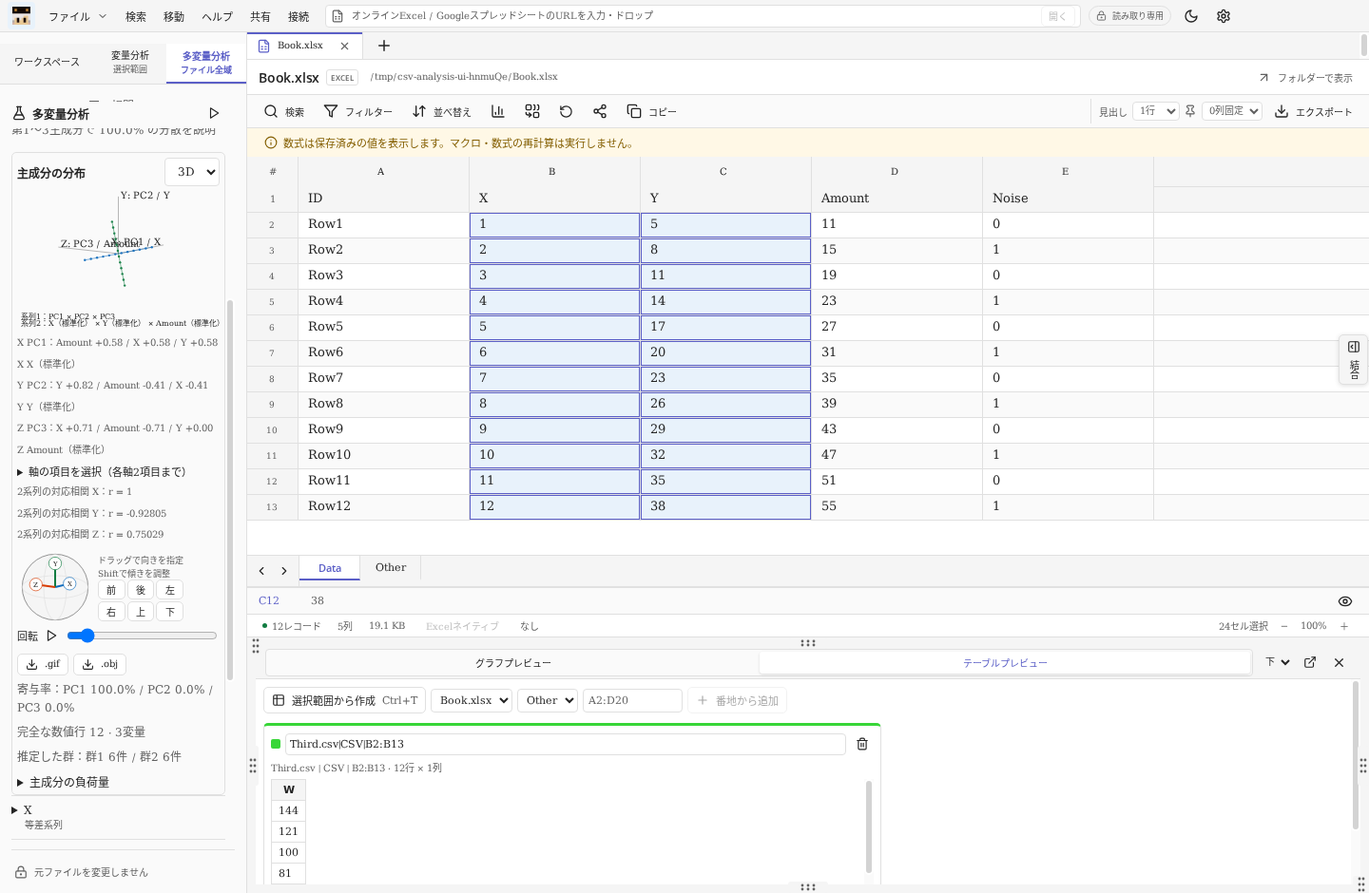
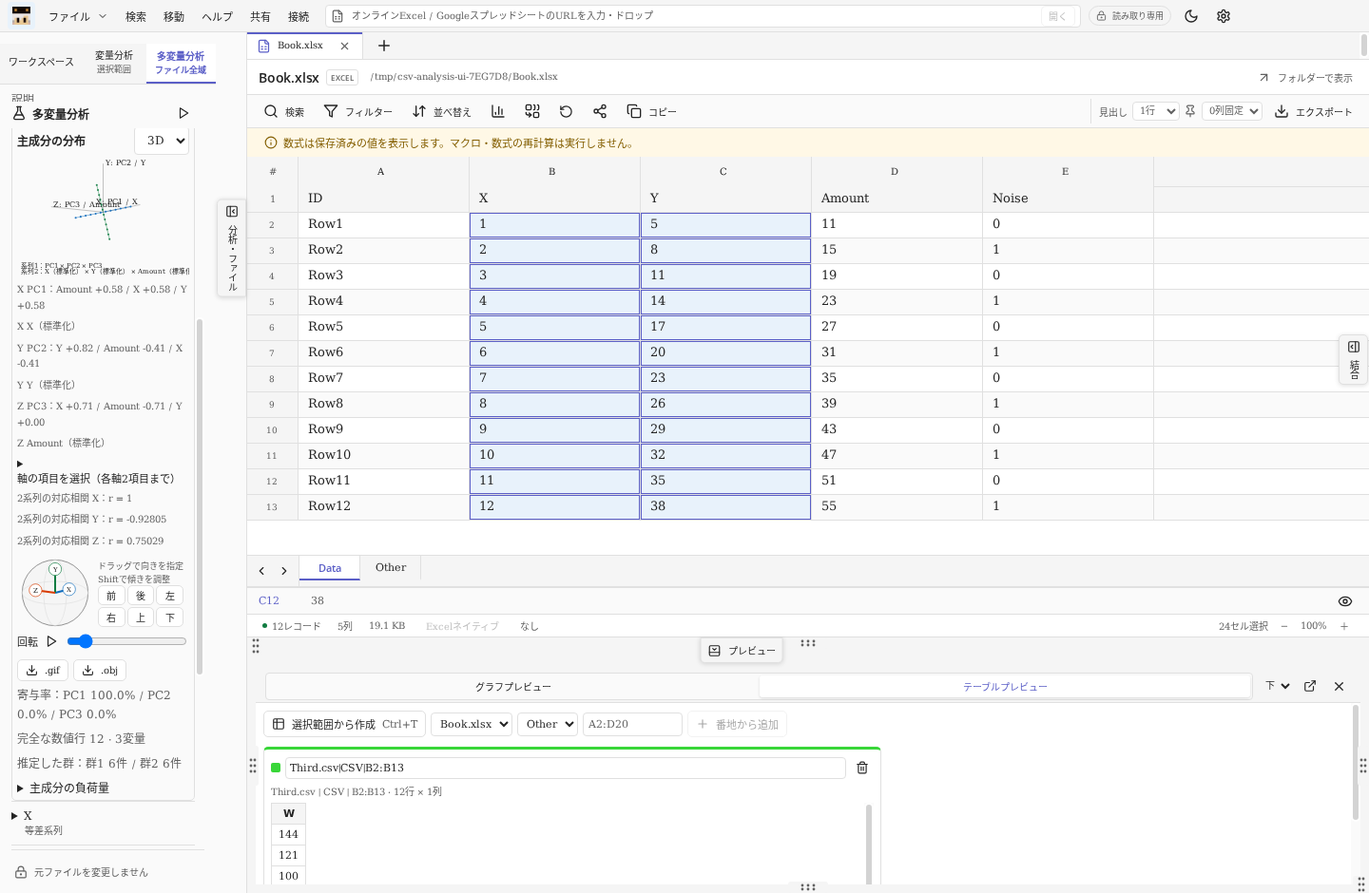
Release v1.2.1: close panes with tabs on the inner side of their data boundary

diff --git a/src/main.tsx b/src/main.tsx
@@ -1,6 +1,6 @@
 import React, { useEffect, useLayoutEffect, useMemo, useRef, useState } from 'react';
 import { createRoot } from 'react-dom/client';
-import { FileSpreadsheet, FolderOpen, Search, Filter as FilterIcon, ArrowDownUp, Download, Moon, Sun, X, Plus, ChevronDown, FileText, LockKeyhole, Pin, Eye, Copy, RotateCw, Settings, List, Check, PanelLeftClose, PanelLeftOpen, ArrowUpRight, ChevronLeft, ChevronRight, Info, BarChart3, Combine, Share2, ArrowUp, ArrowDown, RotateCcw, EyeOff, Trash2, PanelBottomOpen, PanelRightOpen, FlaskConical } from 'lucide-react';
+import { FileSpreadsheet, FolderOpen, Search, Filter as FilterIcon, ArrowDownUp, Download, Moon, Sun, X, Plus, ChevronDown, FileText, LockKeyhole, Pin, Eye, Copy, RotateCw, Settings, List, Check, PanelLeftClose, PanelLeftOpen, ArrowUpRight, ChevronLeft, ChevronRight, Info, BarChart3, Combine, Share2, ArrowUp, ArrowDown, RotateCcw, EyeOff, Trash2, FlaskConical } from 'lucide-react';
 import MarkdownIt from 'markdown-it';
 import DOMPurify from 'dompurify';
 import type { Meta, Row, Filter, Sort, Selection, Tab, Preferences } from './types';
@@ -10,6 +10,7 @@ import { AnalysisPanel } from './analysis-panel';
 import { defaultChartSettings, cloneChartSpec } from './chart-settings';
 import { DockPane, Dashboard, MergePanel, type Position } from './panels';
 import { DockSlot } from './dock-slot';
+import { PaneBoundaryButton } from './pane-boundary-button';
 import { SidebarBoundary } from './splitter';
 import { GridHead } from './grid-head';
 import { WorksheetTabs } from './worksheet-tabs';
@@ -326,7 +327,7 @@ function App() {
     <div className="workbench">
       {sidebar && <aside className="sidebar" style={{width:prefs.sidebarWidth||260}}><SidebarModeTabs active={sideMode} onChange={setSideMode}/><div className="sidebar-mode-content" role="tabpanel" id={'sidebar-panel-'+sideMode} aria-labelledby={'sidebar-mode-'+sideMode}>{sideMode!=='workspace'?<AnalysisPanel tab={selectedTab} tabs={tabs} tables={savedTables} all={sideMode==='multivariate'}/>:<><button className="open-button" onClick={openDialog} disabled={!!busy}><FolderOpen size={17}/>ファイルを開く<Plus size={15}/></button><div className="section-label">開いているファイル <span>{tabs.length}</span></div><div className="file-list">{tabs.map(t => <button key={t.meta.id} title={t.meta.path} className={'file-item ' + (t.meta.id === activeId ? 'selected' : '')} onClick={() => setActiveId(t.meta.id)}>{['csv','excel'].includes(t.meta.kind) ? <FileSpreadsheet size={17}/> : <FileText size={17}/>}<span>{t.meta.name||nameOf(t.meta.path)}</span><small onClick={e => { e.stopPropagation(); close(t.meta.id); }}><X size={13}/></small></button>)}{!tabs.length && <p className="sidebar-empty">開いているファイルはありません</p>}</div>
       {meta && isCsv ? <><div className="section-label">列 <span>{columns.length}/{meta.columns}</span></div><div className="column-list">{meta.headers.map((h, c) => <label key={c} title={h}><input type="checkbox" checked={!selectedTab!.hidden.includes(c)} onChange={e => { const hidden = e.target.checked ? selectedTab!.hidden.filter(v => v !== c) : [...selectedTab!.hidden, c]; patchTab({ hidden }); }}/><span className="column-letter">{letter(c)}</span><span>{h}</span>{frozenColumns.includes(c) && <Pin size={11}/>}</label>)}</div></> : <><div className="section-label">最近開いたファイル</div><div className="recent-list">{prefs.recent?.slice(0, 8).map(path => <button key={path} title={path} onClick={() => openPaths([path])}><FileText size={14}/><span>{nameOf(path)}</span></button>)}</div></>}
-      </>}</div><SidebarBoundary width={prefs.sidebarWidth||260} onChange={sidebarWidth=>savePrefs({sidebarWidth})}/><div className="sidebar-footer"><LockKeyhole size={14}/><span>元ファイルを変更しません</span></div></aside>}
+      </>}</div><SidebarBoundary width={prefs.sidebarWidth||260} onChange={sidebarWidth=>savePrefs({sidebarWidth})}/><PaneBoundaryButton position="left" expanded label="左サイドの境界ボタンで閉じる" onClick={()=>setSidebar(false)}>分析・ファイル</PaneBoundaryButton><div className="sidebar-footer"><LockKeyhole size={14}/><span>元ファイルを変更しません</span></div></aside>}
       <div className="editor-layout"><main className="main-panel">
         <div className="tabbar">{tabs.map(t => <div key={t.meta.id} className={'tab ' + (t.meta.id === activeId ? 'active' : '')}><button title={t.meta.path} onClick={() => setActiveId(t.meta.id)}>{['csv','excel'].includes(t.meta.kind) ? <FileSpreadsheet size={15}/> : <FileText size={15}/>}<span>{t.meta.name||nameOf(t.meta.path)}</span></button><button aria-label={`${t.meta.name||nameOf(t.meta.path)}を閉じる`} className="tab-close" onClick={() => close(t.meta.id)}><X size={13}/></button></div>)}<button className="icon-btn add-tab" aria-label="ファイルを追加" onClick={openDialog}><Plus size={18}/></button></div>
         {meta ? <><div className="document-heading"><div><h1>{meta.name||nameOf(meta.path)}<span className="type-badge">{meta.kind === 'markdown' ? 'MARKDOWN' : meta.kind.toUpperCase()}</span></h1><p title={meta.sourceUrl||meta.path}>{meta.sourceUrl||meta.path}</p></div><button className="quiet-button" disabled={!!meta.sourceUrl} title="フォルダーで表示" onClick={() => window.csv.reveal(meta.path)}><ArrowUpRight size={15}/>フォルダーで表示</button></div>
@@ -352,9 +353,10 @@ function App() {
         {meta.kind==='excel' && (meta.sheets?.length||0)>1 && <WorksheetTabs key={meta.id} sheets={meta.sheets!} active={meta.sheet||meta.sheets![0]} disabled={!!busy} panelId={'worksheet-grid-'+meta.id} onSelect={sheet=>configure({sheet})}/>}
         <div className="inspector"><span className="cell-address">{selectedTab?.selection ? `${letter(selectedTab.selection.col1)}${selectedTab.selection.row1 + 1}` : '—'}</span><pre title="選択セルの内容（型変換なし）">{cellValue || ' '}</pre><button title="セルの全文を表示" aria-label="セルの全文を表示" className="icon-btn" onClick={() => showModal('cell')}><Eye size={16}/></button></div>
         <footer className="statusbar"><span><span className="status-dot"/>{count(meta.count)}{isCsv ? 'レコード' : '行'}</span>{isCsv && <span>{count(meta.columns)}列</span>}<span>{bytes(meta.size)}</span><button disabled={meta.kind==='excel'} onClick={() => showModal('reading')}>{meta.encoding==='workbook'?'Excelネイティブ':ENCODINGS.find(e => e[0] === meta.encoding)?.[1]}{meta.bom ? ' BOM' : ''}</button><span>{meta.lineEndings}</span><div className="status-right">{selectionCount > 0 && <span>{count(selectionCount)}セル選択</span>}<button onClick={() => savePrefs({ fontSize: Math.max(10,(prefs.fontSize || 13)-1) })}>−</button><span>{Math.round((prefs.fontSize || 13)/13*100)}%</span><button onClick={() => savePrefs({ fontSize: Math.min(24,(prefs.fontSize || 13)+1) })}>＋</button></div></footer></> : <div className="welcome"><div className="welcome-art"><div className="sheet"><div className="sheet-top"><FileSpreadsheet size={20}/><span>CSV nyaan Viewer</span><LockKeyhole size={12}/></div>{[0,1,2,3].map(r => <div className="sheet-row" key={r}>{[0,1,2].map(c => <span key={c} className={r === 2 && c === 1 ? 'blue' : ''}/>)}</div>)}</div></div><span className="eyebrow">YOUR DATA. AS IT IS.</span><h1>ファイルを、そのまま読む。</h1><p>CSVの桁数も、Markdownの構造も、テキストの内容も。<br/>変換せずに開いて、必要な情報をすばやく見つける。</p><button className="primary large" onClick={openDialog}><FolderOpen size={18}/>ファイルを開く<span>Ctrl + O</span></button><div className="drop-hint">CSV・Excel・.md・.txt・オンラインファイルのURLをドラッグ＆ドロップ</div><div className="welcome-features"><span><LockKeyhole size={17}/>元ファイルを保持</span><span><Search size={17}/>検索・フィルター</span><span><Download size={17}/>必要な形式で出力</span></div></div>}
-      {!previewOpen&&<button className={'pane-reopen preview-reopen reopen-'+(prefs.previewPosition||'bottom')} aria-label="下段プレビューを開く" onClick={()=>setPreviewOpen(true)}><PanelBottomOpen size={14}/>プレビュー</button>}{!mergeOpen&&<button className={'pane-reopen merge-reopen reopen-'+(prefs.mergePosition||'right')} aria-label="右側ファイル結合を開く" onClick={()=>setMergeOpen(true)}><PanelRightOpen size={14}/>結合</button>}{!sidebar&&<button className="pane-reopen reopen-left" aria-label="左サイドを開く" onClick={()=>setSidebar(true)}><PanelLeftOpen size={14}/>分析・ファイル</button>}</main>{(['top','bottom','left','right'] as Position[]).map(position=>{
+      {!previewOpen&&<PaneBoundaryButton position={(prefs.previewPosition||'bottom') as Position} expanded={false} className="preview-reopen" label="下段プレビューを開く" onClick={()=>setPreviewOpen(true)}>プレビュー</PaneBoundaryButton>}{!mergeOpen&&<PaneBoundaryButton position={(prefs.mergePosition||'right') as Position} expanded={false} className="merge-reopen" label="右側ファイル結合を開く" onClick={()=>setMergeOpen(true)}>結合</PaneBoundaryButton>}{!sidebar&&<PaneBoundaryButton position="left" expanded={false} label="左サイドを開く" onClick={()=>setSidebar(true)}>分析・ファイル</PaneBoundaryButton>}</main>{(['top','bottom','left','right'] as Position[]).map(position=>{
       const panels=[];if(previewOpen&&(prefs.previewPosition||'bottom')===position)panels.push(pane('preview'));if(mergeOpen&&(prefs.mergePosition||'right')===position)panels.push(pane('merge'));
-      return panels.length?<DockSlot key={position} position={position} size={prefs.dockSizes?.[position]} onResize={size=>savePrefs({dockSizes:{...prefs.dockSizes,[position]:size}})}>{panels}</DockSlot>:null;
+      const controls=[];if(previewOpen&&(prefs.previewPosition||'bottom')===position)controls.push(<PaneBoundaryButton key="preview" position={position} expanded label="グラフプレビューの境界ボタンで閉じる" onClick={()=>setPreviewOpen(false)}>プレビュー</PaneBoundaryButton>);if(mergeOpen&&(prefs.mergePosition||'right')===position)controls.push(<PaneBoundaryButton key="merge" position={position} index={controls.length} expanded label="ファイル結合の境界ボタンで閉じる" onClick={()=>setMergeOpen(false)}>結合</PaneBoundaryButton>);
+      return panels.length?<DockSlot key={position} position={position} size={prefs.dockSizes?.[position]} controls={controls} onResize={size=>savePrefs({dockSizes:{...prefs.dockSizes,[position]:size}})}>{panels}</DockSlot>:null;
     })}</div>
     </div>
     {tableMenu&&<><div className="head-menu-shield" onPointerDown={()=>setTableMenu(null)}/><div className="head-menu" role="menu" aria-label="テーブルの操作" style={{left:tableMenu.x,top:tableMenu.y}}>{savedTables.filter(t=>tableMenu.ids.includes(t.id)).map(t=><button role="menuitem" key={t.id} onClick={()=>deleteSavedTable(t.id)}><Trash2 size={14}/>{t.name}を削除</button>)}</div></>}

diff --git a/src/style.css b/src/style.css
@@ -51,6 +51,18 @@
 .sidebar-mode-tab.active small{color:inherit}
 .sidebar-mode-tab:focus-visible{outline:2px solid var(--accent-text);outline-offset:-2px}
 .sidebar-mode-content{display:flex;flex-direction:column;flex:1;min-height:0}
+/* Close tabs sit on the pane side of the data boundary, clear of the resize grips. */
+.sidebar{padding-right:44px}
+.dock-slot.left{padding-right:34px}.dock-slot.right{padding-left:34px}
+.dock-slot.top{padding-bottom:34px}.dock-slot.bottom{padding-top:34px}
+.pane-close{margin:0;color:var(--text)}
+.pane-boundary-button svg{flex-shrink:0}.pane-boundary-button span{overflow:hidden;text-overflow:ellipsis;min-width:0;min-height:0}
+.close-left,.close-right{top:var(--pane-button-position);max-height:calc(50% - 48px);writing-mode:vertical-rl;transform:translateY(-50%)}
+.close-left{right:0;border-radius:5px 0 0 5px}
+.close-right{left:0;border-radius:0 5px 5px 0}
+.close-top,.close-bottom{left:calc(50% + var(--pane-button-offset));transform:translateX(-50%)}
+.close-top{bottom:0;border-radius:5px 5px 0 0}
+.close-bottom{top:0;border-radius:0 0 5px 5px}
 /* Analysis, table snapshots and 3D controls share the current theme. */
 .analysis-panel{padding:8px 0;overflow-wrap:anywhere}.analysis-panel>header{position:sticky;top:0;z-index:1;background:var(--surface);padding-bottom:4px}.analysis-scopes{border:1px solid var(--line);border-radius:5px;margin:8px 0;padding:6px}.analysis-scopes legend{font-size:10px;color:var(--muted)}.analysis-scopes label{display:flex;align-items:flex-start;gap:5px;padding:4px 0;font-size:11px}.analysis-scopes input[type=radio]{accent-color:var(--accent);margin:2px 0;width:13px;height:13px;flex-shrink:0}.sheet-scope>span{min-width:0;flex:1}.sheet-scope select{display:block;width:100%;margin-top:5px;font-size:11px;padding:4px}.analysis-source-list,.analysis-table-list{max-height:120px;overflow:auto;padding-left:15px}.analysis-source-list p,.analysis-table-list label{font-size:10px}.all-scope{display:flex;align-items:center;justify-content:space-between}.all-scope .icon-btn{padding:2px}.analysis-scopes small{font-size:10px;color:var(--muted)}.analysis-scopes>label{flex-wrap:wrap}.analysis-plot{display:block;width:100%;height:auto;max-height:360px}.analysis-exports,.analysis-downloads{display:flex;flex-wrap:wrap;gap:5px;margin-top:8px}.analysis-exports button{flex:1;min-width:0;padding:6px 3px;font-size:10px;white-space:normal}.analysis-downloads button,.individual-analysis-chart button{padding:4px 8px;font-size:10px}.analysis-pca{padding:5px}.pca-categories p,.series-correlations p{font-size:10px}.axis-choices{font-size:11px;margin:6px 0}.axis-choices>div{display:grid;grid-template-columns:22px minmax(0,1fr);gap:4px;margin:5px 0}.axis-choices>div select{grid-column:2;width:100%;font-size:10px;padding:4px}.axis-choices>div strong{grid-row:1/3;align-self:center}.axis-choices>label{display:flex;align-items:center;gap:5px}.axis-choices small{display:block;color:var(--muted);font-size:10px;margin:5px 0}.orientation-control{display:flex;align-items:center;gap:5px;margin-top:6px}.analysis-pca .direction-wheel{width:80px;min-width:80px;touch-action:none;cursor:grab}.direction-wheel:focus-visible{outline:2px solid var(--accent-text);border-radius:50%}.orientation-control small{font-size:9px;color:var(--muted)}.view-presets{display:grid;grid-template-columns:repeat(3,1fr);gap:2px}.view-presets button{padding:2px 4px;font-size:10px}.rotation-control{display:flex;align-items:center;gap:4px;font-size:11px}.rotation-control .icon-btn{padding:3px}.rotation-control input[type=range]{flex:1;min-width:0;padding:0}.analysis-alignment{font-size:10px}.individual-analysis-chart{margin:5px 0}.table-preview{display:flex;flex-direction:column;min-height:0;flex:1;padding:8px;overflow:auto}.table-create-bar{display:flex;flex-wrap:wrap;align-items:center;gap:5px;font-size:11px}.table-create-bar button{padding:5px 8px}.table-create-bar select{max-width:220px;padding:5px}.table-create-bar input{width:105px;padding:5px}.saved-tables{display:flex;gap:10px;flex-wrap:wrap;margin-top:10px}.saved-table{border:1px solid var(--line);border-top:3px solid var(--table-color);border-radius:5px;background:var(--bg);padding:7px;width:min(100%,650px);font-size:11px}.saved-table header{display:flex;align-items:center;gap:5px}.saved-table header input{flex:1;min-width:0;font-size:11px;padding:4px}.table-swatch{width:10px;height:10px;background:var(--table-color);border-radius:2px;flex-shrink:0}.saved-table small{display:block;color:var(--muted);margin:5px 0;font-size:10px;overflow-wrap:anywhere}.saved-table-scroll{overflow:auto;max-height:170px}.saved-table table{border-collapse:collapse;white-space:nowrap}.saved-table th,.saved-table td{border:1px solid var(--line);padding:4px 7px;max-width:250px;overflow:hidden;text-overflow:ellipsis}.saved-table th{background:var(--surface2)}.cell.table-cell{background:color-mix(in srgb,var(--table-color) 14%,var(--bg));box-shadow:inset 0 -2px var(--table-color)}.cell.table-cell.selected{background:var(--accent-soft);box-shadow:inset 0 0 0 1px var(--accent-text),inset 0 -3px var(--table-color)}.cell.table-cell.cell-concealed{background:var(--surface3);color:var(--concealed-text)}.head-menu[aria-label="テーブルの操作"] button{white-space:normal;overflow-wrap:anywhere}
 

diff --git a/src/dock-slot.tsx b/src/dock-slot.tsx
@@ -10,7 +10,7 @@ function DotGrip({ vertical = false }: { vertical?: boolean }) {
   </svg>;
 }
 
-export function DockSlot({ position, size = {}, onResize, children }: { position: Position; size?: PaneSize; onResize(size: PaneSize): void; children: React.ReactNode }) {
+export function DockSlot({ position, size = {}, onResize, children, controls }: { position: Position; size?: PaneSize; onResize(size: PaneSize): void; children: React.ReactNode; controls?: React.ReactNode }) {
   const ref = useRef<HTMLDivElement>(null);
   const [draft, setDraft] = useState<PaneSize | null>(null);
   const [limits, setLimits] = useState({ width: 1600, height: 600 });
@@ -93,9 +93,10 @@ export function DockSlot({ position, size = {}, onResize, children }: { position
   }
   const events = (direction: Direction, wEdge: 'left'|'right' = widthEdge, hEdge: 'top'|'bottom' = heightEdge) => ({ onPointerDown: (event: React.PointerEvent<HTMLElement>) => begin(direction, event, wEdge, hEdge), onPointerMove: move, onPointerUp: finish, onPointerCancel: finish, onLostPointerCapture: finish, onDoubleClick: () => reset(direction), onKeyDown: (event: React.KeyboardEvent<HTMLElement>) => keyboard(direction, event, wEdge, hEdge) });
   const width = current.width === undefined ? horizontal ? '100%' : clampWidth(310) : clampWidth(current.width);
-  const height = current.height === undefined ? horizontal ? clampHeight(270) : '100%' : clampHeight(current.height);
+  const height = current.height === undefined ? horizontal ? clampHeight(300) : '100%' : clampHeight(current.height);
   return <div ref={ref} className={`dock-slot ${position}${draft ? ' resizing' : ''}`} style={{ width, height }}>
     {children}
+    {controls}
     {(['top','bottom'] as const).map(edge=><div key={edge} className={`dock-grip grip-height edge-${edge}`} role="separator" tabIndex={0} aria-label={`${label}の高さを調整（${edge==='top'?'上':'下'}）`} aria-orientation="horizontal" aria-valuemin={minHeight} aria-valuemax={limits.height} aria-valuenow={typeof height==='number'?height:limits.height} title="上下にドラッグして高さを調整" {...events('height',widthEdge,edge)}><DotGrip/></div>)}
     {(['left','right'] as const).map(edge=><div key={edge} className={`dock-grip grip-width edge-${edge}`} role="separator" tabIndex={0} aria-label={`${label}の幅を調整（${edge==='left'?'左':'右'}）`} aria-orientation="vertical" aria-valuemin={minWidth} aria-valuemax={limits.width} aria-valuenow={typeof width==='number'?width:limits.width} title="左右にドラッグして幅を調整" {...events('width',edge,heightEdge)}><DotGrip vertical/></div>)}
     {([['top','left','左上'],['bottom','right','右下']] as const).map(([h,w,name])=><button key={name} className={`dock-grip grip-both edge-${h} edge-${w}`} aria-label={`${label}の幅と高さを調整（${name}）`} title="斜めにドラッグして幅と高さを調整" {...events('both',w,h)}><DotGrip vertical/></button>)}

diff --git a/src/pane-boundary-button.tsx b/src/pane-boundary-button.tsx
@@ -1,0 +1,15 @@
+import React from 'react';
+import { PanelBottomClose, PanelBottomOpen, PanelLeftClose, PanelLeftOpen, PanelRightClose, PanelRightOpen, PanelTopClose, PanelTopOpen } from 'lucide-react';
+import type { Position } from './panels';
+
+const icons = {
+  top: [PanelTopOpen, PanelTopClose], bottom: [PanelBottomOpen, PanelBottomClose],
+  left: [PanelLeftOpen, PanelLeftClose], right: [PanelRightOpen, PanelRightClose],
+};
+
+export function PaneBoundaryButton({ position, expanded, label, children, index = 0, className = '', onClick }: {
+  position: Position; expanded: boolean; label: string; children: React.ReactNode; index?: number; className?: string; onClick(): void;
+}) {
+  const Icon = icons[position][expanded ? 1 : 0];
+  return <button type="button" className={`pane-reopen pane-boundary-button ${expanded ? 'pane-close close-' : 'reopen-'}${position} ${className}`} style={{ '--pane-button-offset': index ? '70px' : '-70px', '--pane-button-position': index ? '75%' : '25%' } as React.CSSProperties} aria-label={label} title={label} aria-expanded={expanded} onClick={onClick}><Icon size={14}/><span>{children}</span></button>;
+}

diff --git a/docs/release-notes.md b/docs/release-notes.md
@@ -1,18 +1,13 @@
-Windows 10 / 11（x64）向け CSV nyaan Viewer 1.2.0です。
+Windows 10 / 11（x64）向け CSV nyaan Viewer 1.2.1です。
 
-Assetsの `CSV-nyaan-Viewer-1.2.0-Windows-x64.zip` をすべて展開して `CSV nyaan Viewer.exe` を起動してください。Node.jsは不要です。
+Assetsの `CSV-nyaan-Viewer-1.2.1-Windows-x64.zip` をすべて展開して `CSV nyaan Viewer.exe` を起動してください。Node.jsは不要です。
 
-- 変量分析は非表示の行・列を除外。法則のある個別項目を展開するとグラフを表示し、個別PNG保存に対応しました。
-- 変量・多変量のMD／XLSX出力は、折りたたみ状態にかかわらず全統計・相関・グラフを収録します。XLSXはグラフ画像と描画データも含みます。
-- 多変量は分析シート・選択範囲・全域・指定テーブルのラジオボタンで対象を選択。全域集計は▷で明示的に開始します。
-- 複数シート・ファイルの範囲選択と表示条件を保持。共通の行名は名前で対応し、同名列は値が一致すれば合流します。不一致は別系列として残し、名前が対応しない場合は行位置を用います。
-- Ctrl＋Tの一時テーブル、色付きセル、名称編集、番地追加、プレビュー／右クリックでの削除を追加しました。
-- 3D方向ホイール、水平回転バー、自動回転、PCと元列を各軸2項目まで選ぶ2系列の比較、軸名とカテゴリー説明を追加しました。
-- 2DはPNG、3Dは現在の向きから2周するGIFと座標・点・接続線のOBJを出力し、軸の項目をファイル名に付けます。
+- 左サイド・グラフプレビュー・ファイル結合の、データとの境界に接したペイン内側へタブ状の閉じるボタンを追加しました。閉じた際の展開ボタンと同じ形状・テーマ色を使います。
+- 既存の×ボタンを維持し、境界ボタンでも閉じられます。開き直してもペインのサイズ・内容・モードを保持します。
+- ペインを上下左右へ移動すると境界ボタンも追随します。同じ側にプレビューと結合を配置しても、別々に閉じられます。境界ドラッグ・6箇所のドット型つまみも利用できます。
+- ライト／ダークの視認性、ペイン内部への配置、つまみと重ならないこと、開閉・位置変更・同じ側への配置をElectronの画面操作で確認します。コア77件・UI24件の全101件をWindowsで実行し、アイコンとAuthenticode署名を検証して配布します。
 
-既存の読み取り専用CSV・Excel・Markdown・TXT閲覧、テーマ、シート／モードタブ、共有・接続、結合、ペイン調整機能を含みます。コアテスト77件・Electron UIテスト24件をWindowsでも実行し、アイコンとAuthenticode署名を検証して配布します。
-
-集計・主成分・群は標本に基づく推定です。集計は最大5,000行・250,000セル・256列、相関32変量・主成分16変量・描画500点／系列です。XLSXのグラフは画像で、編集可能なExcelチャートではありません。テーブルは一時保存で、終了時に消えます。詳しい操作・対応方法・上限はREADMEを参照してください。
+v1.2.0の読み取り専用CSV・Excel・Markdown・TXT閲覧、テーブル管理、名前による範囲合流、変量・多変量分析、2D／3D操作、各種出力、テーマ、共有・接続機能を含みます。XLSXの分析グラフは画像として収録します。操作と上限はREADMEを参照してください。
 
 検証用の自己署名版です。公開証明書 `test-signing.cer` と検証結果 `SIGNATURE.json` を配布します。以前の証明書を登録している場合は新しい拇印を確認して更新してください。手順は [Windowsコード署名](https://github.com/BLIMP-B/csv-nyaan-viewer/blob/main/docs/code-signing.md) を参照してください。
 

diff --git a/docs/theme-audit.md b/docs/theme-audit.md
@@ -44,3 +44,11 @@
 ## v1.2.0：分析と一時テーブル
 
 新しい集計ラジオボタン・軸選択・3Dホイール・自動回転・出力ボタン、テーブルプレビューと色付きセルを全3アクセント×両テーマで確認します。図と出力画像は共通のテーマ変数から文字・背景・系列色を取得します。
+
+## v1.2.1：境界の開閉ボタン
+
+左サイド・プレビュー・結合の境界に接する閉じるボタンを追加しました。開くボタンと共通のテーマ色・形状を使い、ライト／ダークの文字のコントラストを確認しています。既存の×ボタン、境界ドラッグ、ドット型つまみを維持します。同じ位置に複数ペインがある場合は境界ボタンを分け、上下左右への位置変更と開閉後のサイズ保持もElectron UIで確認します。
+
+![境界の閉じるボタン（ライト）](images/pane-boundary-buttons-light.png)
+
+![境界の閉じるボタン（ダーク）](images/pane-boundary-buttons-dark.png)
